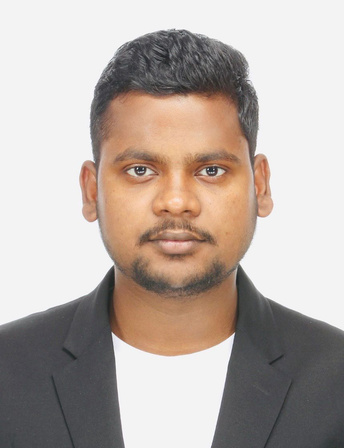
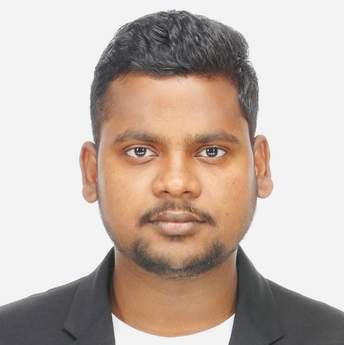
Team: update all executive board photos from 2026 PDF

diff --git a/team.md b/team.md
@@ -54,13 +54,13 @@ permalink: /team/
     <p>Research Associate Professor<br>Hanyang University<br>Seoul, South Korea</p>
   </div>
   <div class="team-card">
-    <img src="{{ '/assets/images/team/image21.png' | relative_url }}" alt="Dr. Manas Biswal" class="team-photo">
+    <img src="{{ '/assets/images/team/image21.jpeg' | relative_url }}" alt="Dr. Manas Biswal" class="team-photo">
     <h3>Dr. Manas Biswal</h3>
     <span class="team-role">Vice President — Cultural Programs & Events</span>
     <p>Research Engineer<br>SRC Co Ltd<br>Busan, South Korea</p>
   </div>
   <div class="team-card">
-    <img src="{{ '/assets/images/team/image22.png' | relative_url }}" alt="Dr. Dilip V. Patil" class="team-photo">
+    <img src="{{ '/assets/images/team/image22.jpeg' | relative_url }}" alt="Dr. Dilip V. Patil" class="team-photo">
     <h3>Dr. Dilip V. Patil</h3>
     <span class="team-role">Vice President — Sports</span>
     <p>Senior Researcher<br>Y S Pharma<br>Suwon, South Korea</p>
